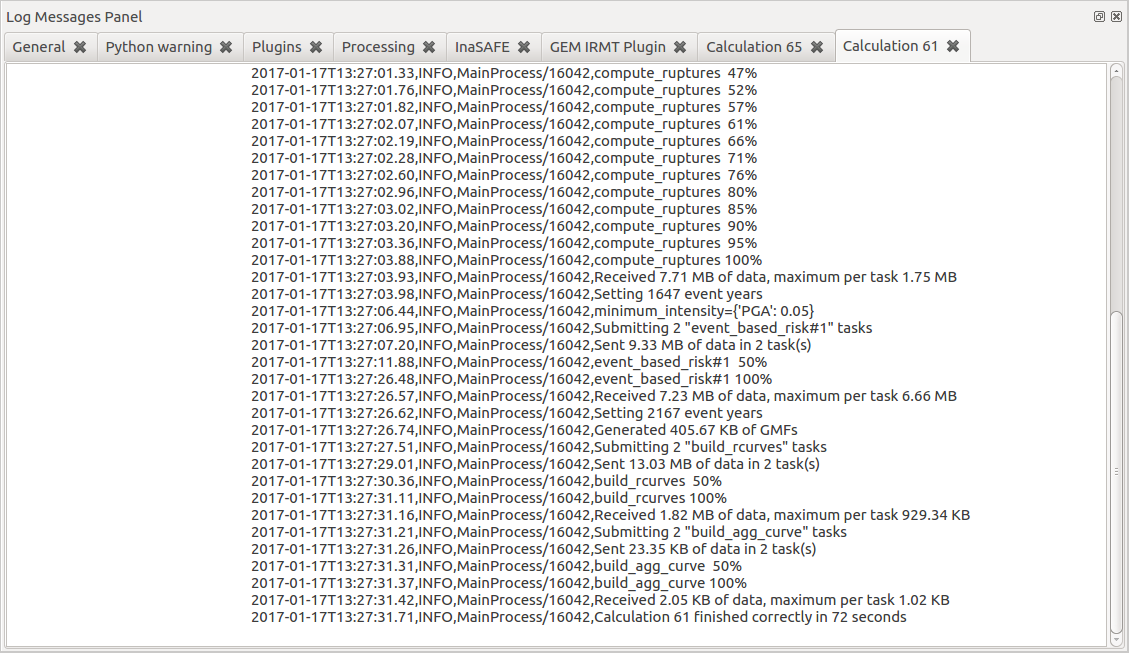
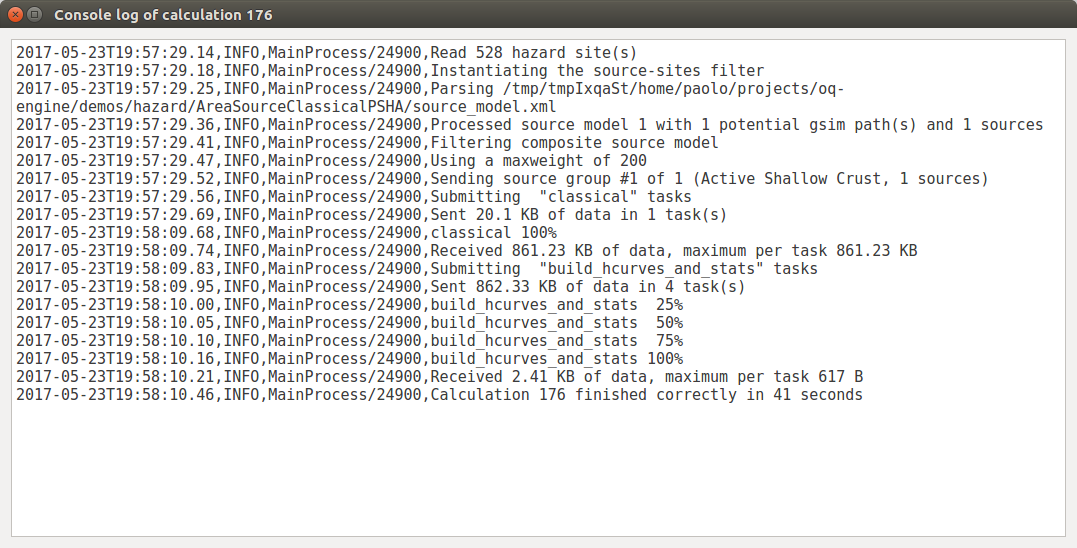
Update manual

diff --git a/svir/help/source/12_using_r_scripts.rst b/svir/help/source/12_using_r_scripts.rst
@@ -94,15 +94,15 @@ Some of these require the statistical platform to take into account one single f
 statistics) or a couple of fields (e.g. scatterplot). In such cases, it is
 sufficient to add parametric references to those fields into the header of the script.
 Things become more complicated where the number of parameters required is not known in
-advance, as in the case of Principal Components Analysis. Unfortunately, at the time of writing, `the
+advance, as in the case of Principal Components Analysis. In older versions of QGIS, `the
 widgets that can be used through the script header
 syntax <http://docs.qgis.org/2.0/en/docs/user_manual/processing/modeler.html#definition-of-inputs>`_
-do not include a multiselection functionality, such as
-`this <https://github.com/gem/oq-irmt-qgis/blob/master/svir/ui/list_multiselect_widget.py>`_).
-Therefore, it is impossible for the user to graphically select an indefinite
-number of fields from the complete list. What we can do, however, is to let our
+did not include a multiselection functionality.
+Therefore, it was impossible for the user to graphically select an indefinite
+number of fields from the complete list. However, even without a multiselect widget,
+it was possible to let a
 script perform the analysis on the whole set of numeric fields available in the
-selected layer. In case we want to exclude some numeric fields from the
+selected layer. In order to exclude some numeric fields from the
 analysis, we can add to the script header the reference to a textual field to
 be added to the GUI, in which the user can insert a list of comma-separated
 names of fields to be ignored. The script becomes something like:
@@ -119,6 +119,30 @@ names of fields to be ignored. The script becomes something like:
     analyzedData <- numericData[, !(names(numericData) %in% excludedFields)]
     comps <- prcomp(analyzedData, scale=TRUE)
     >comps
+
+Since a multiple selector for layer fields has been made available,
+it is possible to run R algorithms such as in the following example,
+using the `multiple field` widget type:
+
+.. code-block:: r
+
+    ##Basic statistics=group
+    ##Layer=vector
+    ##ChosenFields=multiple field Layer
+    layerData <- data.frame(Layer)
+    numericFields <- sapply(layerData, is.numeric)
+    numericData <- layerData[, numericFields]
+    chosen <- trimws(strsplit(ChosenFields, ";")[[1]])
+    analyzedData <- numericData[, names(numericData) %in% chosen]
+    comps <- prcomp(analyzedData, scale=TRUE)
+    >comps
+
+This script creates automatically a graphical user interface that first lets the user
+select one of the available layers. Once the layer is selected, the corresponding fields
+are listed in a multi-select widget, where a set of them can be chosen. As soon as the
+`Run` button is pressed, the algorithm collects the chosen fields and it performs
+the Principal Components Analysis on them, excluding the non-numeric ones that might
+have been erroneously selected.
 
 What if we want to build a vector layer using the results of a calculation
 performed by R? Examples of this are available in the documentation linked

diff --git a/svir/help/source/07_transform_attribute.rst b/svir/help/source/07_transform_attribute.rst
@@ -12,12 +12,11 @@ Transforming attributes
 
     |icon-transform-attributes| Variable transformation and batch transformation functionality
 
-Once variables are selected, they should be standardized or normalized before
-they are aggregated into composite indicators. This is because variables are
-delineated in a number of statistical units that could easily consist of
-incommensurate ranges or scales. Variables are standardized to avoid problems
-inherent when mixing measurement units, and normalization is employed to avoid
-having extreme values dominate an indicator, and to partially correct for data
+
+When variables are delineated in incommensurate ranges or scales, they can be
+standardized to avoid problems inherent when mixing measurement units, and
+normalization is employed to avoid having extreme values dominate an indicator,
+and to partially correct for data
 quality problems. The QGIS platform natively provides a :guilabel:`Field calculator` that
 can be used to update existing fields, or to create new ones, in order to
 perform a wide variety of mathematical operations for the
@@ -35,6 +34,13 @@ mathematical modelling packages (:numref:`tab-transformation-functions`).
   Logistig Sigmoid               :math:`S(x_i) = \frac{1}{1 + e^{-x_i}}`
   Simple Quadratic               :math:`Q(x_i) = \frac{x^2}{\max_{i \in \{1,\dots,n\}}(x_i)}`
   =============================  =================================================================================================================================
+
+.. warning::
+
+    Not all layer types can be edited. For instance, it is impossible to add or
+    modify fields of a csv-based layer. Prior to apply transformations to
+    non-editable layers, it is necessary to save them as shapefiles or as
+    another editable kind.
 
 These include:
 
@@ -112,7 +118,16 @@ proposed by the tool). Otherwise, the names of the new fields will be
 automatically assigned using the following convention: if the original
 attribute is named *ORIGINALNA*, the name of the transformed attribute becomes
 *\_ORIGINALN* (prepending "*\_*" and truncating to 10 characters which is the
-maximum length permitted for field names in shapefiles).
+maximum length permitted for field names in shapefiles). If the layer does not
+have the limitations of a shapefile, the name of the transformed field will *not*
+be truncated to 10 characters.
+
+.. note::
+
+    In the lists of fields, both the field name and the field alias are displayed,
+    with the format `name (alias)`. If no alias is specified for the field, the
+    parenthesis will be empty. The plugin automatically assigns to the
+    transformed field the same alias of the original one (if available).
 
 If the checkbox :guilabel:`Let all project definitions utilize transformed
 values` is checked, all the project definitions associated with the active

diff --git a/svir/help/source/00_installation.rst b/svir/help/source/00_installation.rst
@@ -1,13 +1,29 @@
-************
-Installation
-************
+********************************
+Installation and troubleshooting
+********************************
 
 This plugin runs with `QGIS 2.14LTR <http://qgis.org/it/site/forusers/alldownloads.html>`_
 and above.
 
 On Microsoft Windows and Mac OS X, QGIS includes all the software dependencies needed by the plugin.
+On Microsoft Windows, we suggest to use the 32 bit version of QGIS, because some library issues are
+still open in the 64 bit version.
 
-On Linux, please make sure that `Scipy <https://www.scipy.org/install.html>`_ is installed.
+On Linux, please make sure that `Scipy <https://www.scipy.org/install.html>`_
+and `Matplotlib <https://matplotlib.org/users/installing.html>`_ with Qt4 backend
+are installed.
+
+On Ubuntu (Debian and similar):
+
+.. code-block:: bash
+
+    $ sudo apt install python-scipy python-matplotlib
+
+On Fedora and similar:
+
+.. code-block:: bash
+
+    $ sudo dnf install python-scipy python-matplotlib
 
 The plugin can be installed using the QGIS Plugins Manager, that is accessible
 through the QGIS menu as :guilabel:`Plugins -> Manage and install plugins`.
@@ -18,6 +34,14 @@ be available for installation. Otherwise, the latest *stable* version will be
 installable. Experimental versions contain new functionalities that may have
 not been properly tested yet, and that could cause the plugin or QGIS to break
 or to behave unexpectedly.
+
+Some users reported issues about `upgrading` the plugin to its latest version.
+We suggest to `reinstall` the plugin instead, in order to make sure the new installation is
+done in a clean folder.
+
+Please note that QGIS 2.18.8 contained some
+`critical bugs <http://www.mail-archive.com/qgis-user@lists.osgeo.org/msg37309.html>`_
+that were fixed in version 2.18.9.
 
 
 How to run tests on Ubuntu 16.04 LTS

diff --git a/svir/help/source/04_irmt_settings.rst b/svir/help/source/04_irmt_settings.rst
@@ -40,6 +40,15 @@ service is hosted. By default, the host is set to `http://localhost:8800`,
 meaning that the plugin will attempt to connect to a OQ Engine Server running
 locally, on port `8800`.
 
+When the plugin loads a map from an OQ-Engine's output or when integrated risk
+indices are calculated, the map is automatically styled applying a rule-based
+classification with the parameters specified in the
+:guilabel:`Rule-based classification settings`.
+By default, whenever composite indices are calculated, the rule-based classification
+is applied and the layer is styled accordingly. On a project level, it is
+possible to avoid restyling the layer at each recalculation of the
+composite indices, by unchecking the corresponding option.
+
 The checkbox labeled :guilabel:`Developer mode (requires restart)` can be used
 to increase the verbosity of logging. The latter is useful for developers or
 advanced users because logging is critical for troubleshooting, but it is not

diff --git a/svir/help/source/14_driving_the_oqengine.rst b/svir/help/source/14_driving_the_oqengine.rst
@@ -38,9 +38,8 @@ Watch the console log
 =====================
 
 It is possible to watch the log of a calculation, by pressing the
-:guilabel:`Console` button in the corresponding row. The log will be
-displayed in a tab of the QGIS :guilabel:`Log Message Panel`, as shown
-in :ref:`fig-calculation-log`.
+:guilabel:`Console` button in the corresponding row. The log will
+be displayed in a separate window as shown in :ref:`fig-calculation-log`.
 
 .. _fig-calculation-log:
 

diff --git a/svir/help/source/03_menu.rst b/svir/help/source/03_menu.rst
@@ -43,10 +43,10 @@ corresponding documentation.
 
 * |icon-connection-settings| :ref:`chap-irmt-settings`
 
+* |icon-plot| :ref:`chap-viewer-dock`
+
 * |icon-manual| IRMT manual: a web browser will be opened, showing the html
   version of this manual
-
-* |icon-plot| :ref:`chap-viewer-dock`
 
 
 .. |icon-connection-settings| image:: images/iconConnectionSettings.png
